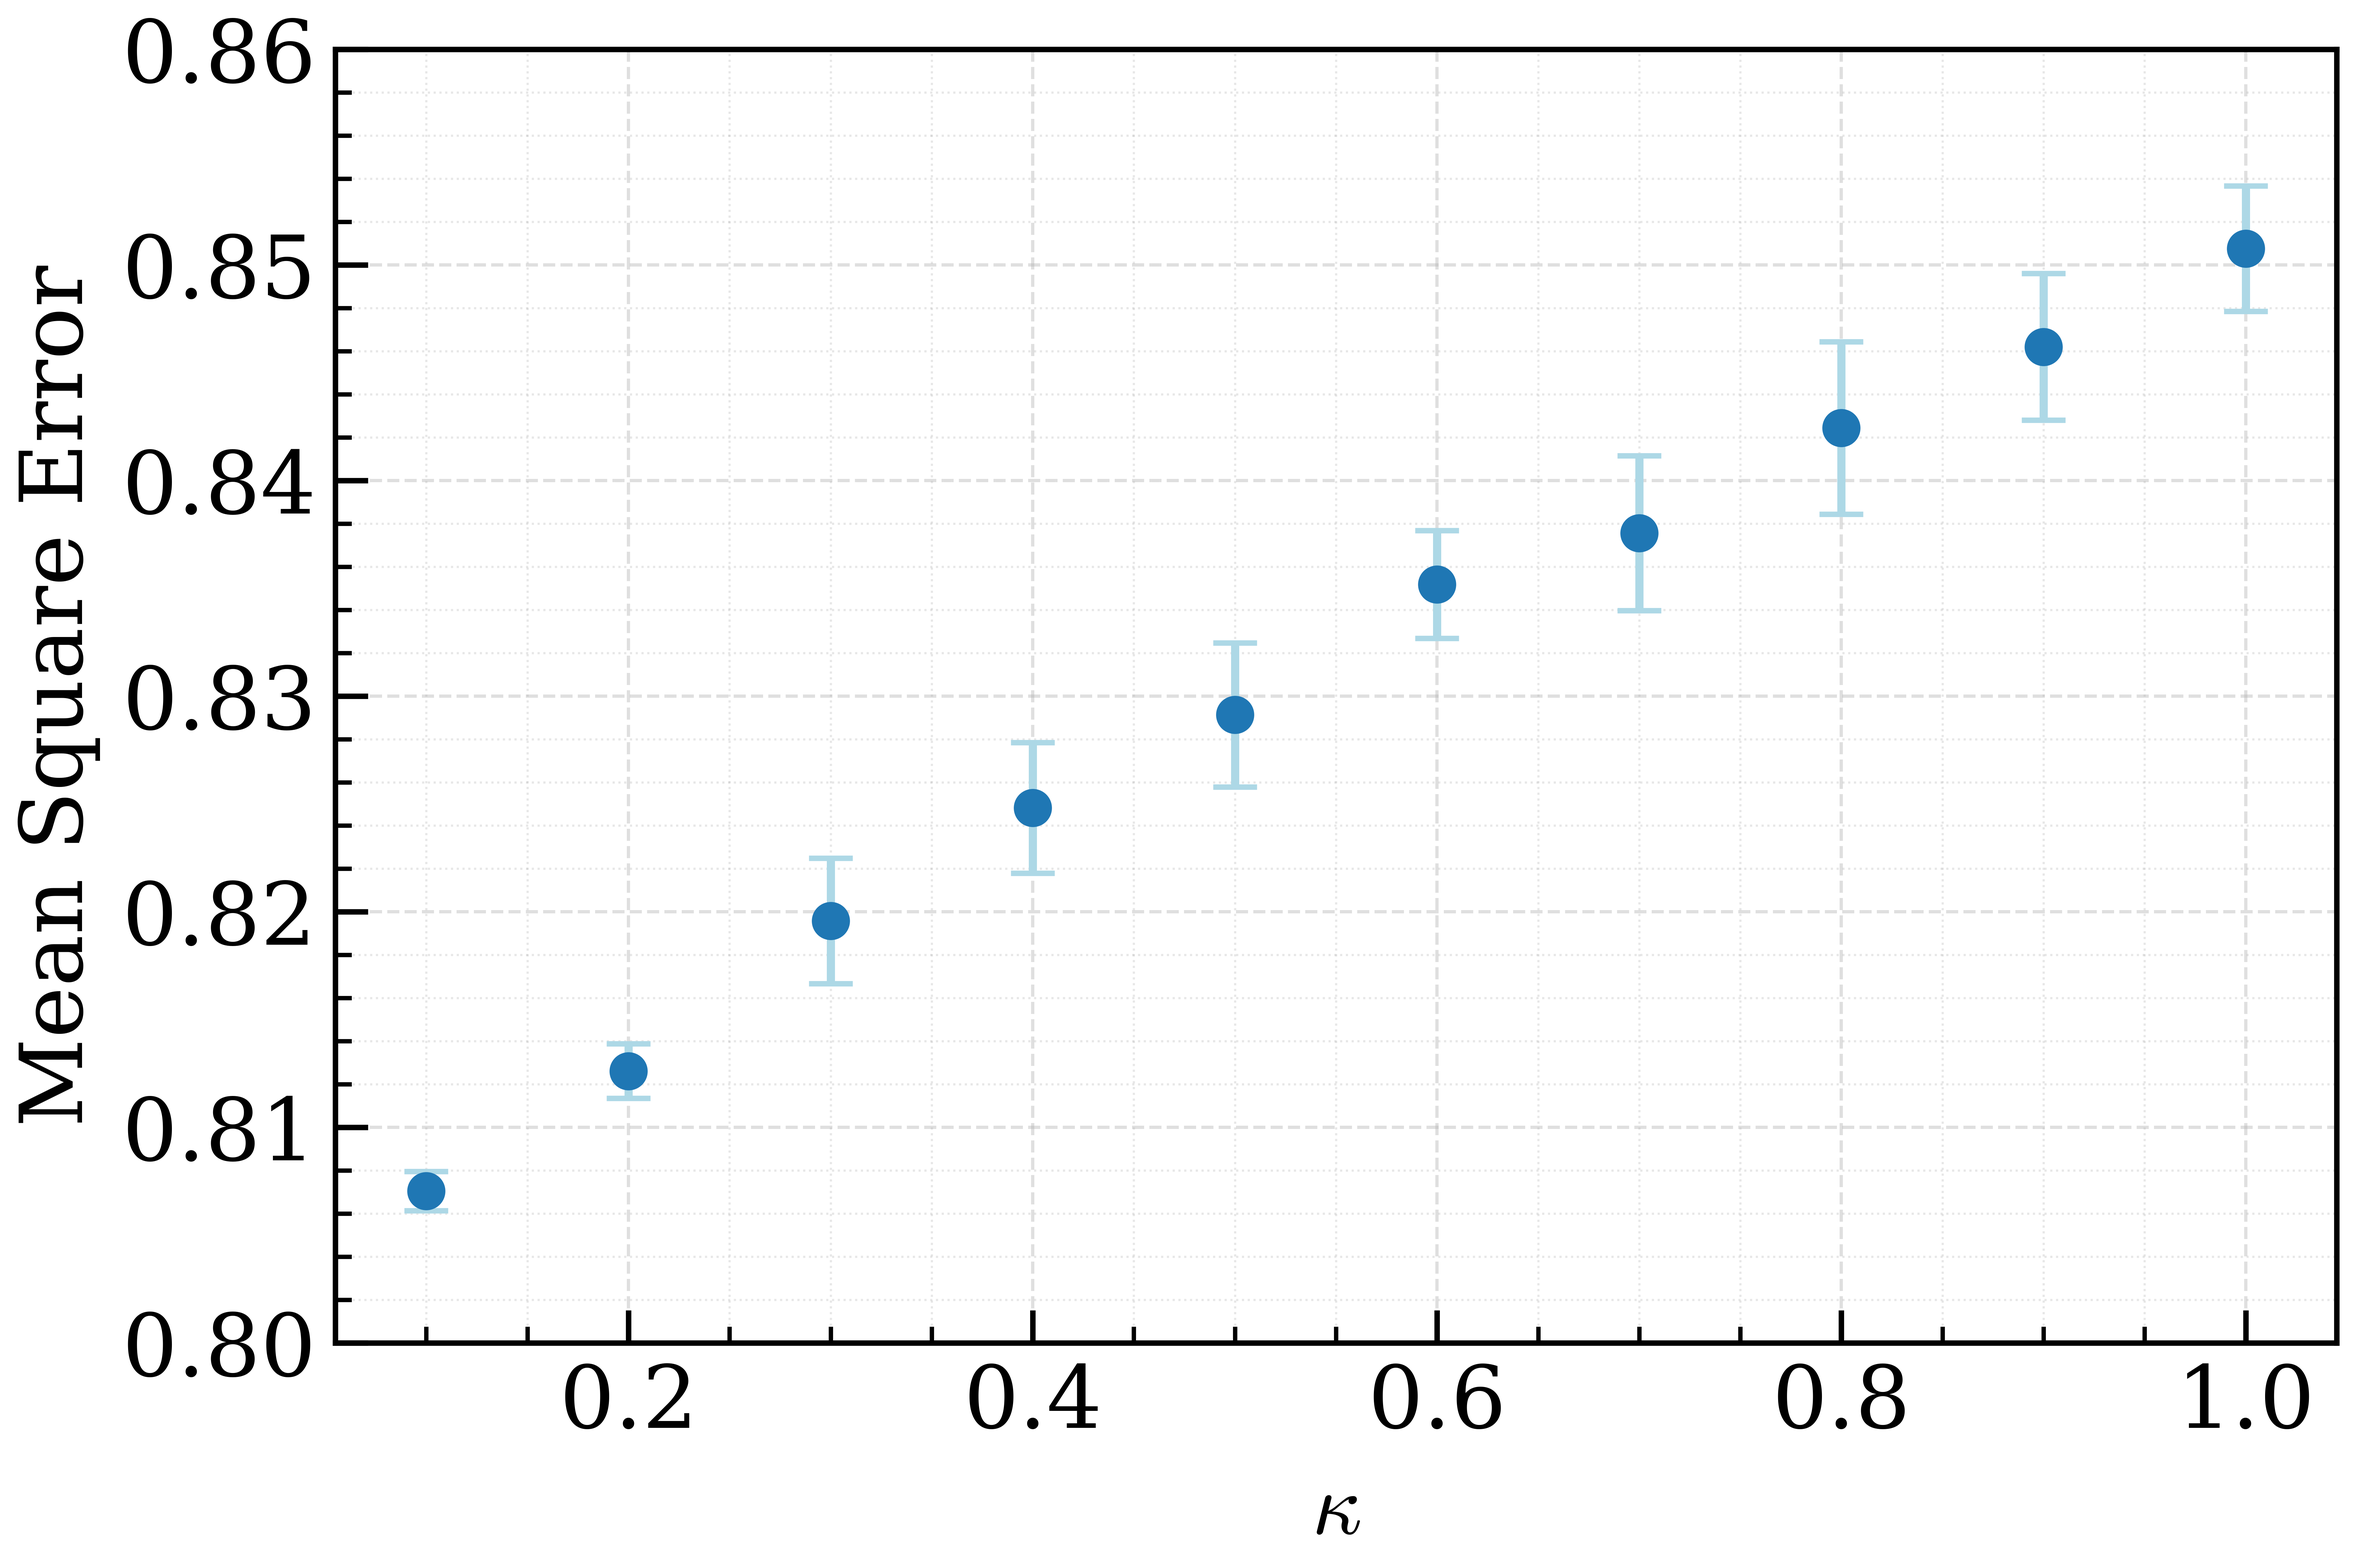
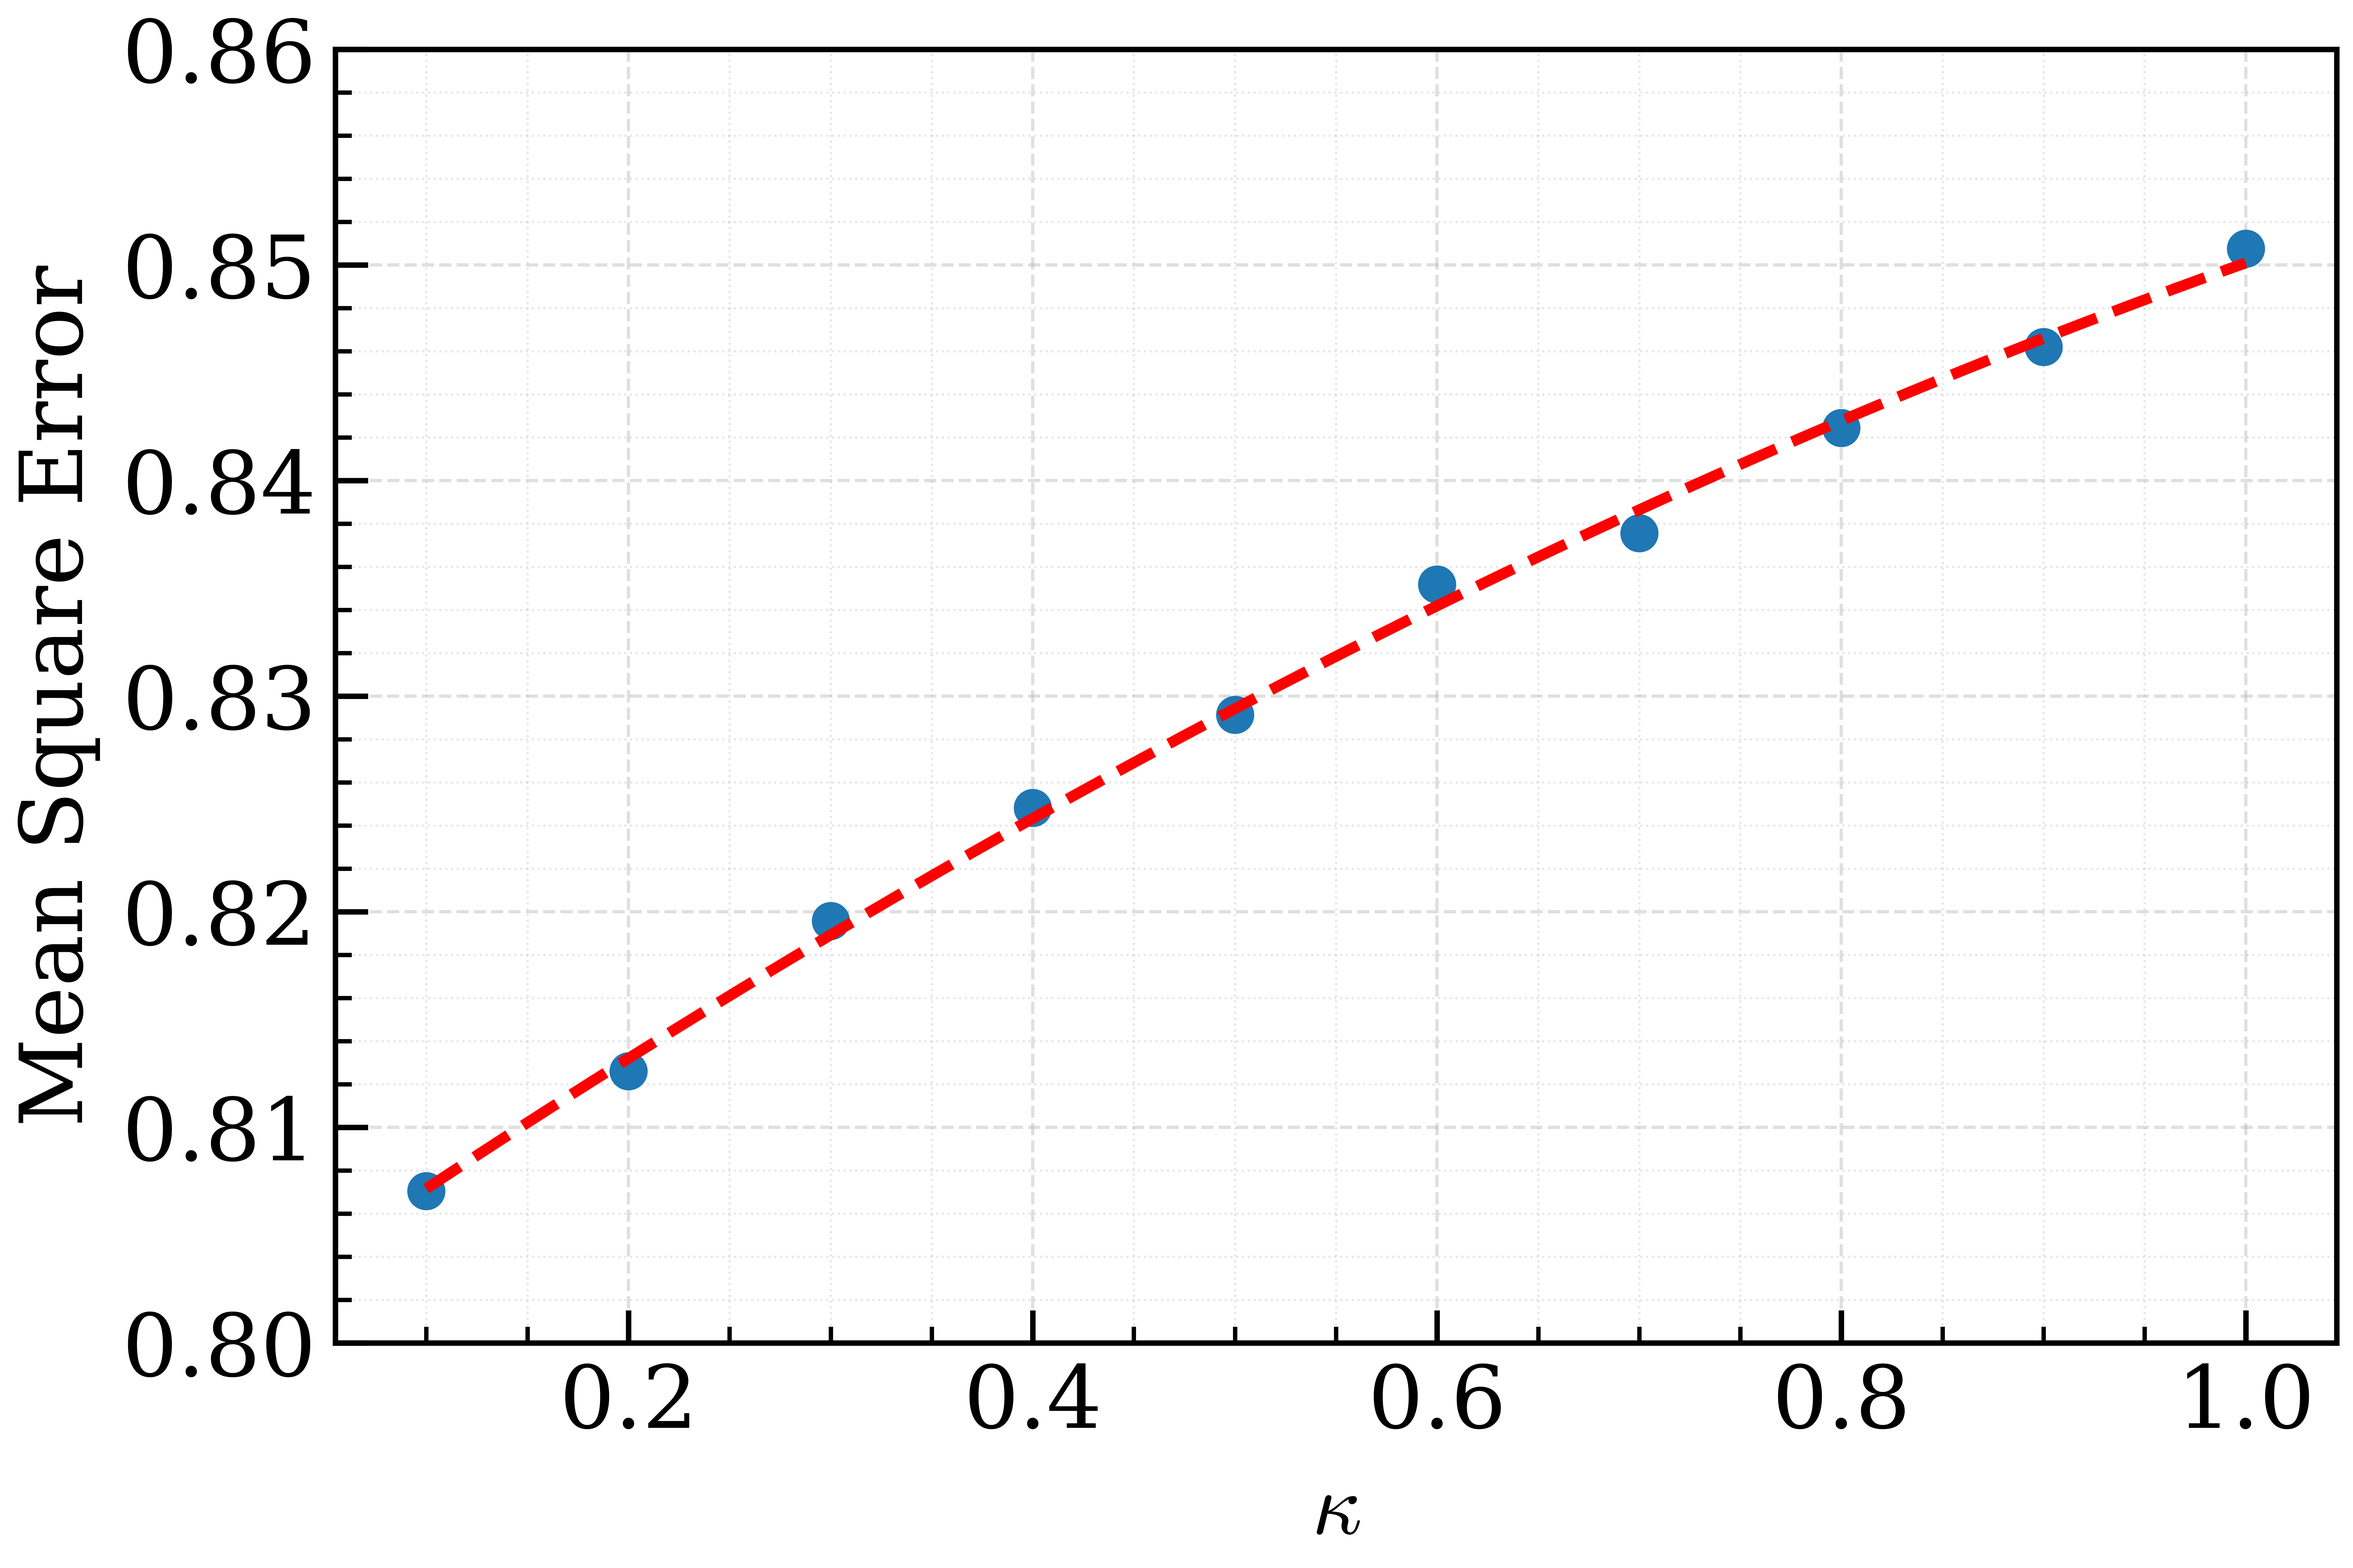
Updated graphs

diff --git a/simulation-scripts/mse_vs_kappa_graph.py b/simulation-scripts/mse_vs_kappa_graph.py
@@ -1,43 +1,58 @@
 import numpy as np
 import matplotlib.pyplot as plt
 import matplotlib as mpl
+from scipy.interpolate import make_smoothing_spline
+import os
+
+os.chdir("..")
 
 file_path = "./simulation-results/gauss_rademacher_mse_data.csv"
-data = np.loadtxt(file_path, delimiter=',',skiprows=1)
+data = np.loadtxt(file_path, delimiter=',', skiprows=1)
 
-kappa_values = np.linspace(0.1,1.0,10)
+kappa_values = np.linspace(0.1, 1.0, 10)
 
 mse_mcmc = data[:, 0]
-std_mcmc = data[:, 1]
+std_mcmc = data[:, 1]   # kept but not plotted
 mse_iter = data[:, 2]
-std_iter = data[:, 3]
+std_iter = data[:, 3]   # kept but not plotted
 
 mpl.rcParams.update({
-    "text.usetex": False,                 # keep it lightweight
-    "mathtext.fontset": "cm",             # Computer Modern for math
-    "font.family": "serif",               # serif text
-    "font.size": 16,                      # base font size
+    "text.usetex": False,
+    "mathtext.fontset": "cm",
+    "font.family": "serif",
+    "font.size": 16,
     "axes.titlesize": 16,
     "axes.labelsize": 16,
     "xtick.labelsize": 16,
     "ytick.labelsize": 16,
     "legend.fontsize": 16,
-    "axes.linewidth": 1,                  # thicker axes
+    "axes.linewidth": 1,
     "figure.dpi": 150,
-    "savefig.dpi": 600,                   # high-res exports
-    "figure.constrained_layout.use": True # tidy spacing
+    "savefig.dpi": 600,
+    "figure.constrained_layout.use": True
 })
 
-fig, ax = plt.subplots(figsize=(6,4))
+fig, ax = plt.subplots(figsize=(6, 4))
 
-ax.errorbar(
-    kappa_values, mse_iter, yerr=std_iter, fmt='o', color='tab:blue',
-    ecolor='lightblue', elinewidth=1.5, capsize=4, label='Fixed point equations'
+ax.plot(
+    kappa_values, mse_iter, 'o',
+    color='tab:blue', label='Fixed point equations'
 )
 
-ax.errorbar(
-    kappa_values, mse_mcmc, yerr=std_mcmc, fmt='s', color='tab:orange',
-    ecolor='peachpuff', elinewidth=1.5, capsize=4, label='MCMC'
+ax.plot(
+    kappa_values, mse_mcmc, 's',
+    color='tab:orange', label='MCMC'
+)
+
+poly_coeffs = np.polyfit(kappa_values, mse_iter, deg=2)
+poly = np.poly1d(poly_coeffs)
+
+kappa_fine = np.linspace(kappa_values.min(), kappa_values.max(), 300)
+mse_poly = poly(kappa_fine)
+
+ax.plot(
+    kappa_fine, mse_poly,
+    '--', color='red', linewidth=2, label='Smooth trend'
 )
 
 ax.grid(which="major", linestyle="--", linewidth=0.6, alpha=0.4)
@@ -50,23 +65,27 @@ ax.tick_params(which="minor", length=3, width=0.8)
 
 ax.legend()
 
-plt.ylim(0.6,1.0)
-
+plt.ylim(0.6, 1.0)
 plt.xlabel(r"$\kappa$")
 plt.ylabel("Mean Square Error")
 
 plt.savefig("mse_vs_kappa_gauss_rademacher.png", dpi=1200)
 
 
+fig, ax = plt.subplots(figsize=(6, 4))
 
-fig, ax = plt.subplots(figsize=(6,4))
 
-ax.errorbar(
-    kappa_values, mse_iter, yerr=std_iter, fmt='o', color='tab:blue',
-    ecolor='lightblue', elinewidth=1.5, capsize=4, label='sin(x)'
+ax.plot(
+    kappa_values, mse_iter, 'o',
+    color='tab:blue'
 )
 
-plt.ylim(0.8,0.86)
+ax.plot(
+    kappa_fine, mse_poly,
+    '--', color='red', linewidth=2
+)
+
+plt.ylim(0.8, 0.86)
 
 ax.grid(which="major", linestyle="--", linewidth=0.6, alpha=0.4)
 ax.grid(which="minor", linestyle=":",  linewidth=0.4, alpha=0.3)

diff --git a/simulation-scripts/mle_bayes_comparison_graph.py b/simulation-scripts/mle_bayes_comparison_graph.py
@@ -1,15 +1,21 @@
 import numpy as np
 import matplotlib.pyplot as plt
 import matplotlib as mpl
+import os
+
+os.chdir('..')
+
+current_dir = os.getcwd()
+print(f"Current directory: {current_dir}")
 
 variable_map = {"kappa": 0, "gamma": 1}
-data_map = {"alpha": 2, "sigma": 3, "mse": 4}
+data_map = {"alpha": 2, "sigma": 3, "mse": 4, "debiased": 5}
 
 variable = input("What varies? [kappa/gamma] ")
-graph_type = input("What type of graph? [alpha/sigma/mse] ")
+graph_type = input("What type of graph? [alpha/sigma/mse/debiased] ")
 
 assert variable in ["kappa","gamma"], "Not valid type of variable!"
-assert graph_type in ["alpha","sigma","mse"], "Nos valid type of graph!"
+assert graph_type in ["alpha","sigma","mse","debiased"], "Nos valid type of graph!"
 
 file_path = "./simulation-results/comparison_mle_bayes_"+variable+".csv"
 data = np.loadtxt(file_path, delimiter=',',skiprows=1)
@@ -32,8 +38,12 @@ mpl.rcParams.update({
     "figure.constrained_layout.use": True # tidy spacing
 })
 
-data_mle = data[:,data_map[graph_type]]
-data_bayes = data[:,data_map[graph_type]+3]
+if data_map[graph_type] < 5:
+    data_mle = data[:,data_map[graph_type]]
+    data_bayes = data[:,data_map[graph_type]+3]
+else:
+    data_mle = (data[:,3]/data[:,2])**2
+    data_bayes = (data[:, 6] / data[:, 5]) ** 2
 
 if variable == "kappa":
     symbol2 = r"$\kappa$"
@@ -44,6 +54,8 @@ if graph_type == "alpha":
     symbol1 = r"$\alpha$"
 elif graph_type == "sigma":
     symbol1 = r"$\sigma$"
+elif graph_type == "debiased":
+    symbol1 = r"$\left(\frac{\sigma}{\alpha}\right)^2$"
 else:
     symbol1 = "MSE"
 

diff --git a/mean_field_glm/model_beta.py b/mean_field_glm/model_beta.py
@@ -55,7 +55,7 @@ class MeanFieldBetaGLM(AuxiliaryFunctions):
     """
     def __init__(self, p=1000, n=1000, kappa=None, cores = 4, chains = 4, draws=1000, tune=2000, tolerance=0.02,
                 max_it=7, v_b=1.0, c_b=0.0, c_bbs=0.0, r_1=1e-6, r_2=0.0, r_3=0.0,
-                delta=0.01, seed=None, bayes_optimal=False):
+                delta=0.001, seed=None, bayes_optimal=False):
         """
         Initialize the MeanFieldGLM class with the specified parameters.
         """
@@ -204,10 +204,10 @@ class MeanFieldBetaGLM(AuxiliaryFunctions):
             y = self.gauss_density(th) * np.multiply(self.dif_tilde_t_delta(c * th - e,self.delta), self.dif_sigmoid(e))
 
             # Integrate over e
-            slice_integrals.append(np.trapz(y, e))
+            slice_integrals.append(np.trapezoid(y, e))
 
         # Integrate over theta to get t_gamma
-        return np.trapz(slice_integrals, range_xth)
+        return np.trapezoid(slice_integrals, range_xth)
 
     def generate_thetas(self, xi_b, xi_bs, z_bbs):
         """
